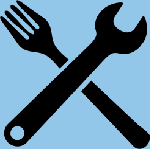
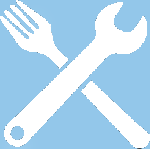
sidebar I really like

diff --git a/app/assets/stylesheets/recipes.css b/app/assets/stylesheets/recipes.css
@@ -1,5 +1,5 @@
 .sidebar{
-  position:absolute;
+  position:fixed;
   background-color: #95D1F0;
   height: 100%;
   bottom: 0px;
@@ -11,8 +11,8 @@
 }
 .potluckpic{
   position: relative;
-  height: 90px;
-  width: 90px;
+  height: 70px;
+  width: 70px;
  }
 
 .side-icons{
@@ -22,27 +22,32 @@
 
 #cookbook{
   position: relative;
-   height:90px;
-   width: 90px;
-   top: 30px;
+   top: 8px;
+   left: 9px;
+   height: 75px;
+   width: 75px;
+
 }
 
 
-#newicon{
+#settings{
   position: relative;
-  height: 90px;
-  width: 90px;
-  top: 130px;
+  top: 120px;
+  left: 10px;
+
 }
 
 #newrecipe{
   position: relative;
-  bottom: 10px;
+  bottom: 50px;
+  left: 10px;
 }
 
 #pot{
   position: relative;
-  top: 55px;
+  top: 60px;
+  left: 10px;
+
  }
 
 
@@ -91,6 +96,9 @@
   margin-left: 110px;
 }
 
+#sidebarheader{
+  color: white;
+}
 
 .page-title {
     font-family: 'Satisfy', cursive;
